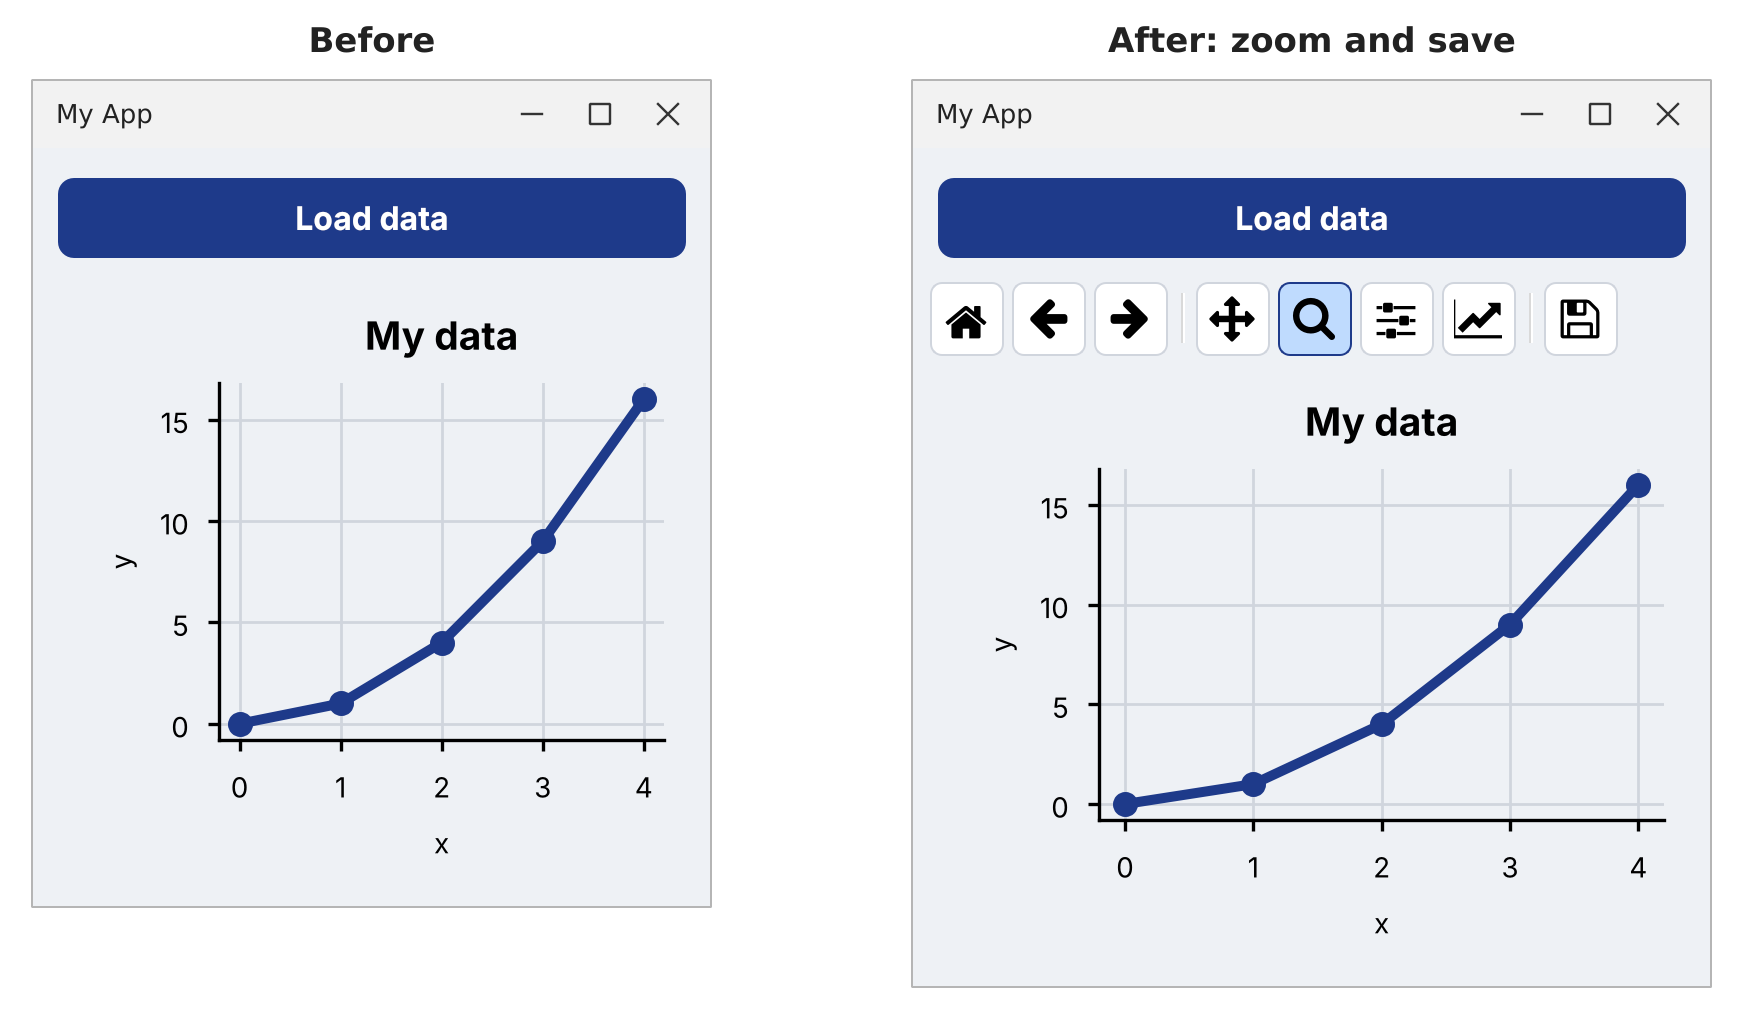
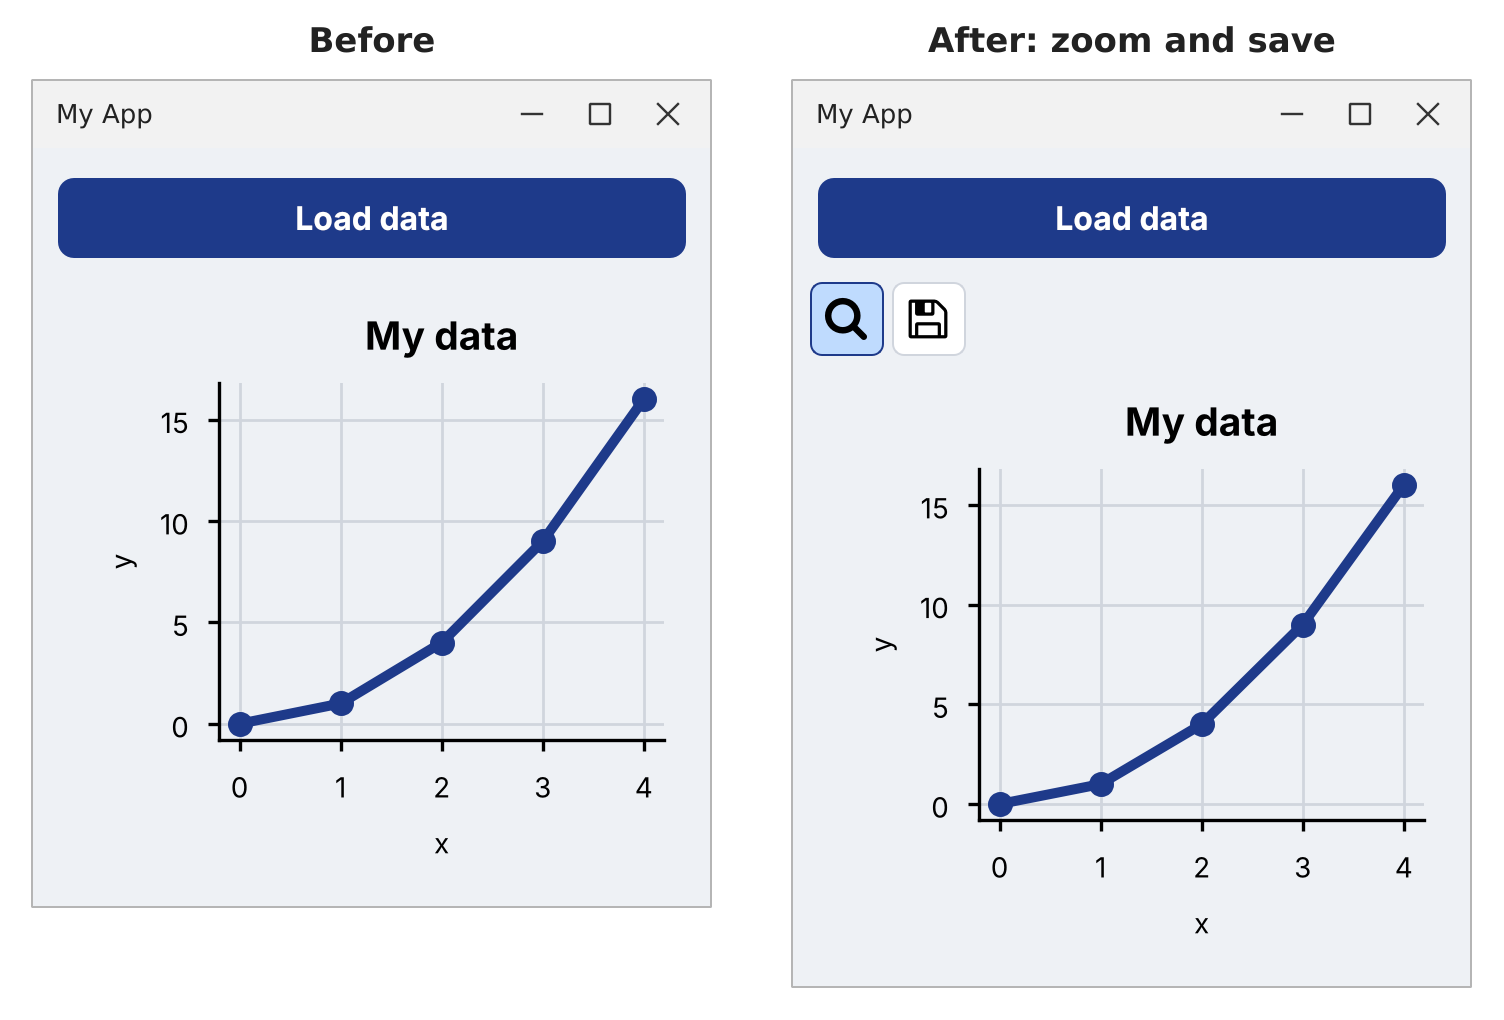
Starter GUI prompts: toolbar prompt keeps only Zoom and Save (EN + HE)
Claude-Session: https://claude.ai/code/session_01TSvAdkHwYUK1dFMohWex9P

diff --git a/content/he/topics/good_prompts.md b/content/he/topics/good_prompts.md
@@ -261,20 +261,25 @@ def draw_graph(self):
 
 עכשיו נאפשר למשתמש לעשות זום ולשמור את הגרף כתמונה. ל-matplotlib כבר יש סרגל כלים (toolbar) שעושה את זה, אז בקשו אותו בשמו, ובקשו שיעוצב כמו שאר האפליקציה:
 
-> Add a toolbar above the graph so I can zoom in, move around the graph and save it as an image. Use matplotlib's ready-made toolbar. Style it to match the rest of the app by adding rules to `style.qss`: the same background as the window, white rounded buttons, and a light blue background when the mouse is over a button or when a button is on. Don't change `draw_graph`.
+> Add a small toolbar above the graph with only two buttons: one to zoom in and one to save the graph as an image. Use matplotlib's ready-made toolbar, but keep only those two buttons and hide the mouse coordinates. Style it to match the rest of the app by adding rules to `style.qss`: the same background as the window, white rounded buttons, and a light blue background when the mouse is over a button or when a button is on. Don't change `draw_graph`.
 
-(״הוסף סרגל כלים מעל הגרף כדי שאוכל לעשות זום, להזיז את הגרף ולשמור אותו כתמונה. השתמש בסרגל הכלים המוכן של matplotlib. עצב אותו כך שיתאים לשאר האפליקציה בעזרת כללים חדשים ב-`style.qss`: אותו רקע כמו החלון, כפתורים לבנים ומעוגלים, ורקע תכלת כשהעכבר מעל כפתור או כשכפתור פעיל. אל תשנה את `draw_graph`.״)
+(״הוסף סרגל כלים קטן מעל הגרף עם שני כפתורים בלבד: אחד לזום ואחד לשמירת הגרף כתמונה. השתמש בסרגל הכלים המוכן של matplotlib, אבל השאר רק את שני הכפתורים האלה והסתר את הקואורדינטות של העכבר. עצב אותו כך שיתאים לשאר האפליקציה בעזרת כללים חדשים ב-`style.qss`: אותו רקע כמו החלון, כפתורים לבנים ומעוגלים, ורקע תכלת כשהעכבר מעל כפתור או כשכפתור פעיל. אל תשנה את `draw_graph`.״)
 
 ![האפליקציה לפני פרומפט סרגל הכלים, ואחריו](content/images/prompt_toolbar_before_after_he.png)
 
-השינוי ב-Python קטן: import אחד, ושתי שורות ב-`__init__` שיוצרות את סרגל הכלים ומכניסות אותו ל-layout:
+השינוי ב-Python קטן: מחלקה קטנה מעל `MainWindow` שמשאירה רק שניים מהכפתורים של סרגל הכלים, ושתי שורות ב-`__init__` שיוצרות את סרגל הכלים ומכניסות אותו ל-layout:
 
 ```python
 from matplotlib.backends.backend_qtagg import NavigationToolbar2QT
+
+
+class GraphToolbar(NavigationToolbar2QT):
+    # Keep only the Zoom and Save buttons of matplotlib's toolbar
+    toolitems = [t for t in NavigationToolbar2QT.toolitems if t[0] in ("Zoom", "Save")]
 ```
 
 ```python
-        self.toolbar = NavigationToolbar2QT(self.canvas, self)
+        self.toolbar = GraphToolbar(self.canvas, self, coordinates=False)
         layout.addWidget(self.toolbar)    # just before layout.addWidget(self.canvas)
 ```
 
@@ -301,11 +306,9 @@ QToolButton:checked {
 }
 ```
 
-מה עושים הכפתורים, משמאל לימין:
+מה עושים שני הכפתורים:
 
-- **Home** (הבית) חוזר לתצוגה המקורית. **Back** ו-**Forward** (החצים) עוברים בין התצוגות שעשיתם אליהן זום.
-- **Move** (החצים לארבעה כיוונים): גוררים את הגרף. **Zoom** (זכוכית המגדלת): מסמנים מלבן על החלק שרוצים לראות בגדול.
-- **Settings** ו-**Edit**: משנים את השוליים, את גבולות הצירים, את הכותרות ואת סגנון הקו.
+- **Zoom** (זכוכית המגדלת): לוחצים עליו, ואז מסמנים מלבן על החלק של הגרף שרוצים לראות בגדול. גרירה עם הכפתור הימני של העכבר מקטינה. לחיצה נוספת על הכפתור מכבה את הזום.
 - **Save** (הדיסקט): שומר את הגרף כקובץ PNG, JPG, PDF או SVG.
 
-סרגל הכלים מוכן מראש, אז כל זה מגיע כמעט בחינם. המראה שלו בידיים שלכם: שנו את הצבעים ב-`style.qss`, בדיוק כמו קודם.
+לסרגל הכלים של matplotlib יש עוד כפתורים: Home (חזרה לתצוגה המלאה), Back, Forward, Pan (הזזת הגרף) ועוד כמה הגדרות. רוצים גם אחד מהם? הוסיפו את השם שלו לרשימה ב-`GraphToolbar`, למשל `("Home", "Zoom", "Save")`. רוצים לשנות את המראה? שנו את הצבעים ב-`style.qss`, בדיוק כמו קודם.

diff --git a/content/topics/good_prompts.md b/content/topics/good_prompts.md
@@ -237,18 +237,23 @@ Now read the code. "The lines on the top and right" are called **spines** in mat
 
 Now let's let the user zoom in and save the graph as a picture. matplotlib already has a toolbar that does this, so ask for it by name, and ask for it to be styled like the rest of the app:
 
-> Add a toolbar above the graph so I can zoom in, move around the graph and save it as an image. Use matplotlib's ready-made toolbar. Style it to match the rest of the app by adding rules to `style.qss`: the same background as the window, white rounded buttons, and a light blue background when the mouse is over a button or when a button is on. Don't change `draw_graph`.
+> Add a small toolbar above the graph with only two buttons: one to zoom in and one to save the graph as an image. Use matplotlib's ready-made toolbar, but keep only those two buttons and hide the mouse coordinates. Style it to match the rest of the app by adding rules to `style.qss`: the same background as the window, white rounded buttons, and a light blue background when the mouse is over a button or when a button is on. Don't change `draw_graph`.
 
 ![The app before the toolbar prompt, and after it](content/images/prompt_toolbar_before_after.png)
 
-The Python change is small: one import, and two lines in `__init__` that create the toolbar and put it in the layout:
+The Python change is small: a tiny class above `MainWindow` that keeps only two of the toolbar's buttons, and two lines in `__init__` that create the toolbar and put it in the layout:
 
 ```python
 from matplotlib.backends.backend_qtagg import NavigationToolbar2QT
+
+
+class GraphToolbar(NavigationToolbar2QT):
+    # Keep only the Zoom and Save buttons of matplotlib's toolbar
+    toolitems = [t for t in NavigationToolbar2QT.toolitems if t[0] in ("Zoom", "Save")]
 ```
 
 ```python
-        self.toolbar = NavigationToolbar2QT(self.canvas, self)
+        self.toolbar = GraphToolbar(self.canvas, self, coordinates=False)
         layout.addWidget(self.toolbar)    # just before layout.addWidget(self.canvas)
 ```
 
@@ -275,11 +280,9 @@ QToolButton:checked {
 }
 ```
 
-What the buttons do, from left to right:
+What the two buttons do:
 
-- **Home** goes back to the original view. **Back** and **Forward** move between the views you zoomed to.
-- **Move** (the arrows): drag the graph around. **Zoom** (the magnifying glass): drag a rectangle over the part you want to see bigger.
-- **Settings** and **Edit**: change the margins, the axis limits, the titles and the line style.
+- **Zoom** (the magnifying glass): click it, then drag a rectangle over the part of the graph you want to see bigger. Drag with the right mouse button to zoom out. Click the button again to turn zoom off.
 - **Save** (the disk): saves the graph as a PNG, JPG, PDF or SVG file.
 
-The toolbar is ready-made, so you get all of this almost for free. Its look is yours: change the colors in `style.qss` just as you did before.
+matplotlib's toolbar has more buttons: Home (back to the full view), Back, Forward, Pan (move the graph around) and a few settings. Want one of them too? Add its name to the list in `GraphToolbar`, for example `("Home", "Zoom", "Save")`. Want to change the look? Change the colors in `style.qss`, just as you did before.
